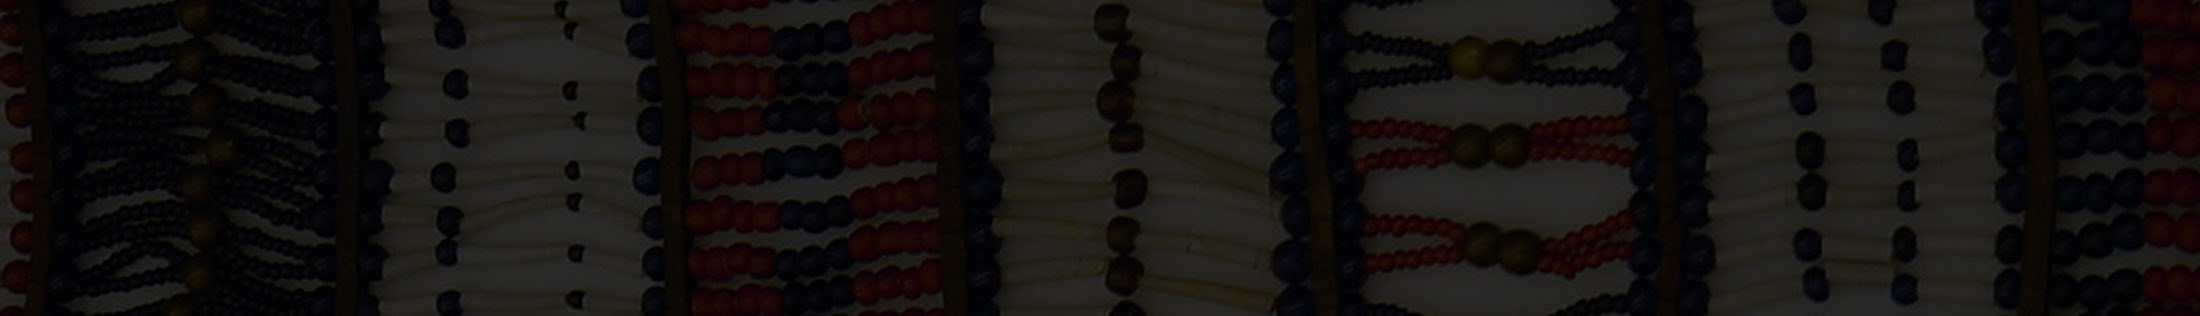
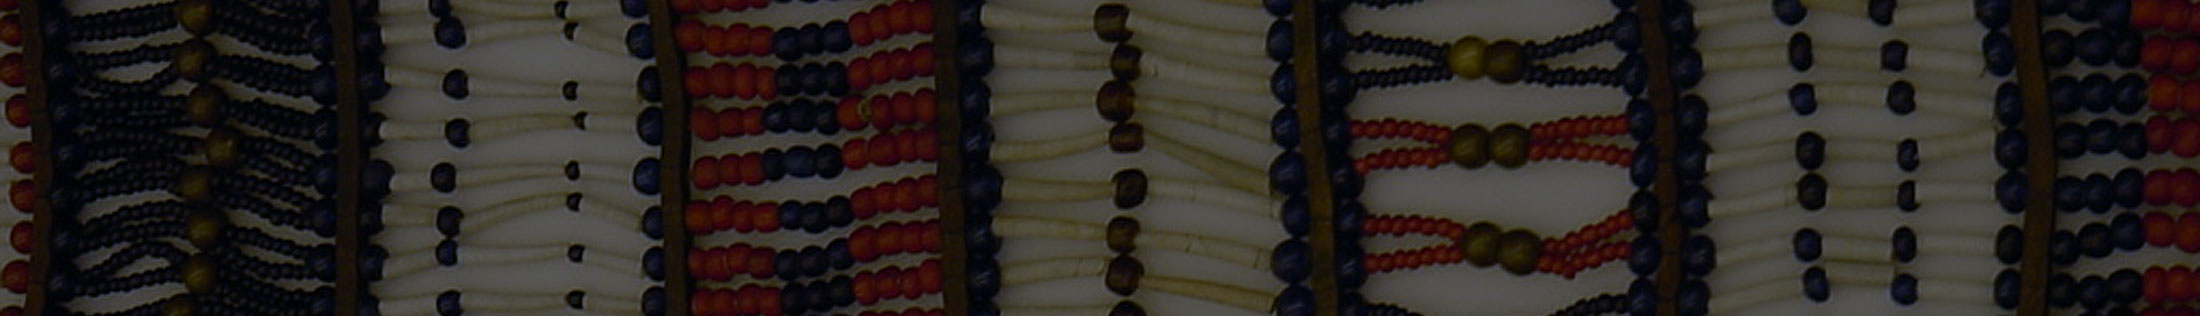
style/imagery updates, news page, menu structure

diff --git a/editor-style-shared.css b/editor-style-shared.css
@@ -47,7 +47,7 @@ h1{
 
 p,
 ul li{
-	font-size:24px;
+	font-size:20px;
 	line-height:1.5em;
 	color:rgba(111,118,123,1);
 }
@@ -57,7 +57,7 @@ p{
 }
 
 h1,h2,h3{
-	margin-bottom:30px;
+	margin-bottom:15px;
 	color:#000;
 }
 
@@ -71,14 +71,20 @@ h1,h2,h3{
 
 h2{
 	font-size:28px;
+	color:#6cbd45;
 }
 
 h3{
-	font-size:20px;
+	font-size:22px;
 }
 
-h3{
+h4{
+	font-size:18px;
+}
+
+h5{
 	font-size:16px;
+	color:#6cbd45;
 }
 
 .highlight-bg-1{
@@ -86,7 +92,11 @@ h3{
 }
 
 .highlight-bg-2{
-	background:#28abe2;
+	background:#e5ebea;
+}
+
+.highlight-bg-3{
+	background:#00afed;
 }
 
 .highlight-bg-1:after,
@@ -129,9 +139,9 @@ h3{
 }
 
 .highlight-bg-1,
-.highlight-bg-2,
 .highlight-bg-1 *,
-.highlight-bg-2 *{
+.highlight-bg-3,
+.highlight-bg-3 *{
 	color:#FFF;
 }
 

diff --git a/editor-style.css b/editor-style.css
@@ -2,3 +2,8 @@
 
 /* Here you can override any CSS which causes layout or visibility problems in the editor, */
 /* and duplicate any Theme-CSS to make the editor display look more like the real frontend */
+
+
+#mceu_124-text.mce-text{
+	color:#6cbd45;
+}

diff --git a/functions.php b/functions.php
@@ -1,10 +1,23 @@
 <?php 
 require_once('wp-bootstrap-navwalker.php');
 define('TASCC_USE_CDN',true);
+define('TASCC_EXCERPT_LENGTH',28);
+
+function tascc_custom_excerpt_length( $length ) {
+    return TASCC_EXCERPT_LENGTH;
+}
+add_filter( 'excerpt_length', 'tascc_custom_excerpt_length', 999 );
 
 add_action( 'init', 'tascc_init' );
 if(!function_exists('tascc_init')){
     function tascc_init(){
+
+        global $wp_styles;
+        $wp_styles->default_version = max(array(
+            filemtime(get_stylesheet_directory() . '/style.css'),
+            filemtime(get_stylesheet_directory() . '/editor-style-shared.css'),
+            filemtime(get_stylesheet_directory() . '/editor-style.css')
+        ));
         
         //EVENTS POST TYPE
         register_post_type( 'events',
@@ -153,7 +166,7 @@ add_action( 'wp_enqueue_scripts', 'tascc_enqueue_styles' );
 if(!function_exists('tascc_enqueue_styles')){
     function tascc_enqueue_styles() {
         $bootstrap_style = 'bootstrap-style';
-        $editor_styles = 'editor_styles';
+        $mce_editor_styles = 'mce_css';
        
         $font = 'google-font';
 
@@ -167,18 +180,20 @@ if(!function_exists('tascc_enqueue_styles')){
             wp_enqueue_style( $bootstrap_style, get_stylesheet_directory_uri() . '/bootstrap/bootstrap.min.css', null, null);
         }
 
-       
+        wp_enqueue_style( $mce_editor_styles, get_stylesheet_directory_uri() . '/editor-style-shared.css');
 
-         wp_enqueue_style( $editor_styles, get_stylesheet_directory_uri() . '/editor-style-shared.css',null,null);
 
         wp_enqueue_style( 'tascc-style',
             get_stylesheet_directory_uri() . '/style.css',
-            array($google_font, $bootstrap_style,$editor_styles),
+            array($google_font, $bootstrap_style,$mce_editor_styles),
             filemtime(get_stylesheet_directory() . '/style.css')
         );
 
+
+
     }
 }
+
 
 
 add_action('wp_enqueue_scripts', 'tascc_enqueue_my_scripts');
@@ -242,7 +257,7 @@ if(!function_exists('get_tascc_commission_list')){
             $cats_out = array();
             if(!empty($cats)){
                 foreach($cats as $key=>$cat){
-                    array_push($cats_out,'<div class="commission-region"><a href="' . get_term_link($cat) . '">'. $cat->name . '</a></div>');
+                    array_push($cats_out,'<div class="commission-region"><!--<a href="' . get_term_link($cat) . '">-->'. $cat->name . '<!--</a>--></div>');
                 }
             }
 
@@ -287,6 +302,56 @@ if(!function_exists('tascc_custom_header_title')){
     }
 }
 
+add_shortcode('tascc-news','get_tascc_posts');
+if(!function_exists('get_tascc_posts')){
+    function get_tascc_posts($attr){
+        $atts = shortcode_atts(array(
+            'category'=>FALSE
+        ),$attr);
+
+        $out = array();
+        $posts = get_posts();
+        foreach($posts as $k=>$p){
+
+            $c = array();
+            $url = get_permalink($p->ID);
+            $title = $p->post_title;
+            $exc = !empty($p->post_excerpt) ? $p->post_excerpt : wp_trim_words($p->post_content);
+
+            $thumb = get_the_post_thumbnail($p->ID,'thumb',array( 'class'  => 'mw-100 float-left' ));
+            
+
+
+            if(!empty($title)){
+                 array_push($c,'<p class="news-date">' . date('M j Y',strtotime($p->post_date)) . '</p>');
+                 array_push($c,'<h2><a href="'. $url .'">' . $title . '</a></h2>');
+            }
+
+            if(!empty($thumb)){
+                array_push($c,'<a href="'. $url .'">' . $thumb . '</a>');
+            }
+
+            if(!empty($exc)){
+                array_push($c,$exc);
+            }
+
+                        
+
+            if(!empty($c)){
+                array_push($out,implode($c,"\n"));
+            }
+        }
+
+        $content = '';
+
+        if(!empty($out)){
+            $content = '<div class="tascc-news"><div class="tascc-news-item clearfix">' . join('</div><div class="tascc-news-item clearfix">',$out) . '</div></div>';
+        }
+
+        return $content;
+    }
+}
+
 add_shortcode('tascc-promos','get_tascc_promos');
 if(!function_exists('get_tascc_promos')){
     function get_tascc_promos($attr){
@@ -298,7 +363,7 @@ if(!function_exists('get_tascc_promos')){
         $out = array();
         foreach($pages as $page_id){
             $p = get_post($page_id);
-            $exc = !empty($p->post_excerpt) ? $p->post_excerpt : wp_trim_words($p->post_content);
+            $exc = !empty($p->post_excerpt) ? $p->post_excerpt : wp_trim_words($p->post_content,TASCC_EXCERPT_LENGTH);
             $thumb = get_the_post_thumbnail($p->ID,'large',array( 'class'  => 'mw-100' ));
             $url = get_permalink($p->ID);
 

diff --git a/template-parts/main-menu.php b/template-parts/main-menu.php
@@ -10,7 +10,7 @@
 
 
 		<div class="sticky clearfix">
-			<div class="large-nav main-menu d-none d-md-block d-lg-block d-xl-block">
+			<div class="large-nav main-menu">
 				<?php wp_nav_menu( array(
 					'container'		 => false,
 					'theme_location' => 'main',
@@ -22,7 +22,7 @@
 			
 
 
-			<div class="small-nav main-menu navbar navbar-light d-md-none d-lg-none d-xl-none">
+			<div class="small-nav main-menu navbar navbar-light">
 				<button class="navbar-toggler" type="button" data-toggle="collapse" data-target="#navbarToggleExternalContent" aria-controls="navbarToggleExternalContent" aria-expanded="false" aria-label="Toggle navigation">
 		      		<span class="navbar-toggler-icon"></span>
 		    	</button>

diff --git a/template-parts/page/content-commission.php b/template-parts/page/content-commission.php
@@ -26,16 +26,16 @@
 	?>
 
 	<header class="entry-header">
-
+		<h1>
 		<?php
 			$cats = get_the_category();
 			if(!empty($cats)){
 				foreach($cats as $key=>$cat){
-					echo '<div class="commission-region"><a href="' . get_term_link($cat) . '">'. $cat->name . '</a></div>';
+					echo '<span class="commission-region"><!--<a href="' . get_term_link($cat) . '">-->'. $cat->name . '<!--</a>--></span><br />';
 				}
 			}
 		?>
-		<h1><?php the_title(); ?>
+		<?php the_title(); ?>
 		<?php 
 			$position = get_post_custom_values('commission-member-position');
 			if(!empty($position)){

diff --git a/header.php b/header.php
@@ -27,7 +27,7 @@
 
 		<div class="header-img">
 			<a href="<?php echo esc_url( home_url( '/' ) ); ?>" rel="home">
-				<img src="<?php echo get_stylesheet_directory_uri(); ?>/images/header-bg.jpg" class="header-bg mw-100" />
+				<img src="<?php echo get_stylesheet_directory_uri(); ?>/images/header-bg.jpg?v=2" class="header-bg mw-100" />
 				<div class="header-logo">
 					<!-- <img src="<?php echo get_stylesheet_directory_uri(); ?>/images/header-logo.png" /> -->
 				</div>

diff --git a/footer.php b/footer.php
@@ -41,7 +41,7 @@
 
 		</div><!-- #content -->
 
-		<footer id="colophon" class="site-footer highlight-bg-2" role="contentinfo">
+		<footer id="colophon" class="site-footer highlight-bg-3" role="contentinfo">
 			<div class="container">
 				<div class="row">
 					<div class="col-lg-4 logo-block footer-block">
